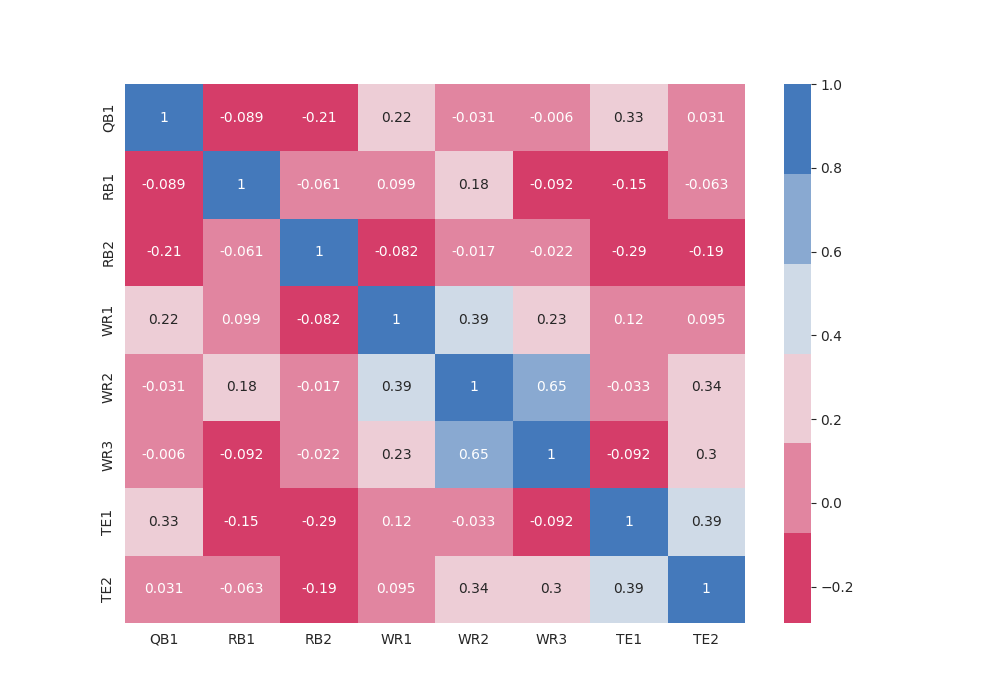
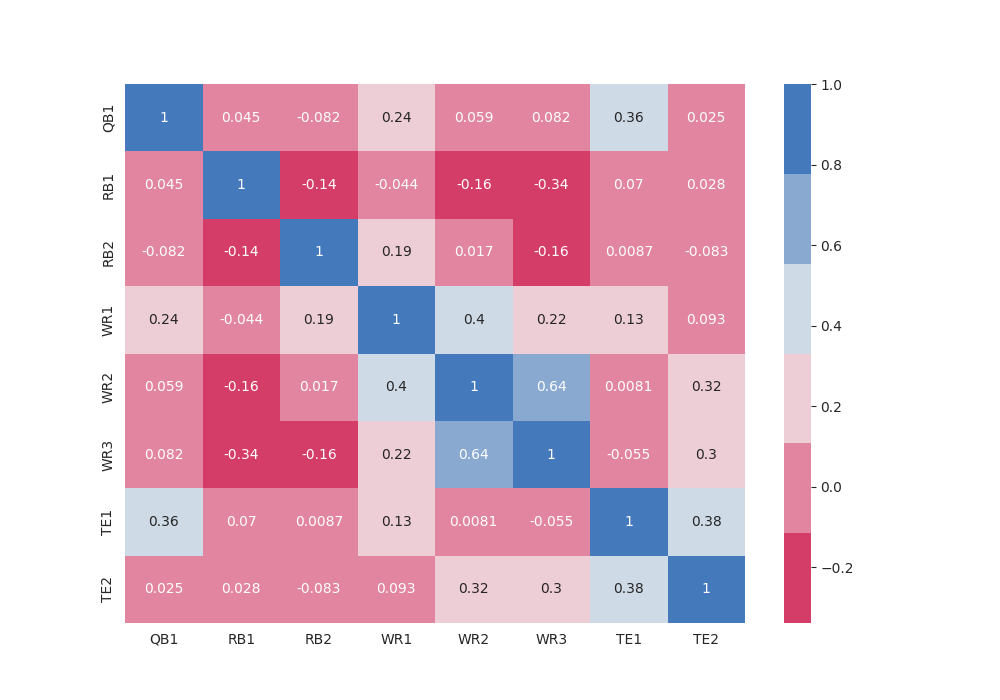
added replacement of positions for more accurate heatmap.

diff --git a/FFDP_course/Correlation_matrices/correlation_matrices.py b/FFDP_course/Correlation_matrices/correlation_matrices.py
@@ -1,4 +1,15 @@
 """
+Analyzes the correlation in fantasy points between positions for a
+given year over the course of a league.
+
+This correlation can be used to check if stacking a position might
+offer better returns in points. The generated heatmap can be used
+to decide if stacking a position might be useful.
+
+Stacking a position means that one puts e.g. a WR2 and WR3 of a team
+on the active rooster. If the correlation between the two position is
+high, one position does not out-score the other one and vice-versa.
+
 Code source:
     https://www.fantasyfootballdatapros.com/course/section/9
 """
@@ -11,16 +22,23 @@ import utils.data_handling as dh
 
 sns.set_style("whitegrid")
 
+# YEAR year to analyse
+# SELECTOR scoring scheme to analyse
 YEAR = 2019
 SELECTOR = "PPRFantasyPoints"
 
+# define number of spots per position
 position_spots = {
     "QB": 1,
     "RB": 2,
     "WR": 3,
     "TE": 2,
 }
+
+# positions to analyse correlation
 positions = ["QB", "RB", "WR", "TE"]
+
+# features to select for overall stats
 features = ["Player", "Tm", "Pos", "Week", SELECTOR]
 
 
@@ -44,8 +62,9 @@ def get_top_n_player_at_each_pos(data, pos, n):
 # load accumulated weekly stats
 df = dh.concat_weekly_stats(YEAR)
 
-# replace team names with standard abbreviations
+# replace team names and positions with standard abbreviations
 df = dh.replace_team_names(df)
+df = dh.replace_positions(df)
 
 # limit to offensive players
 df = df.loc[df["Pos"].isin(positions)]
